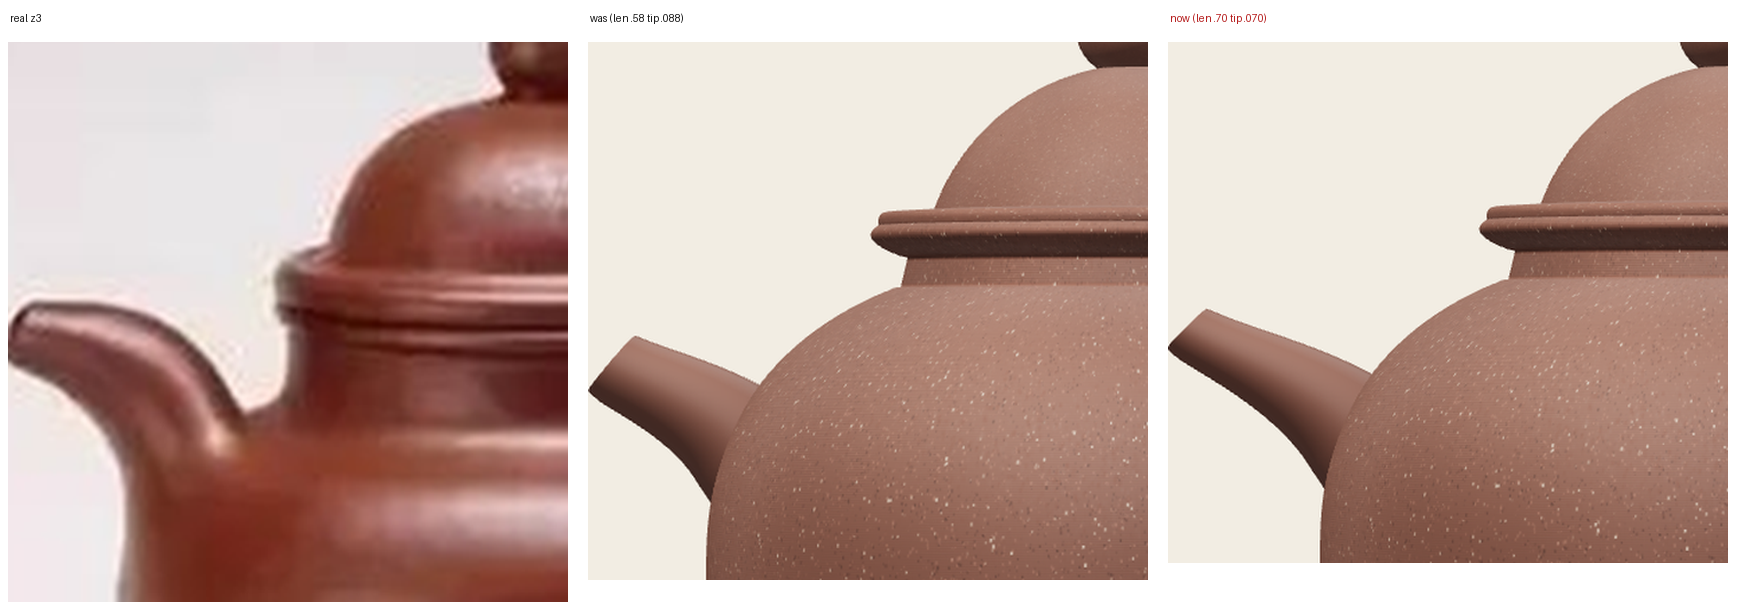
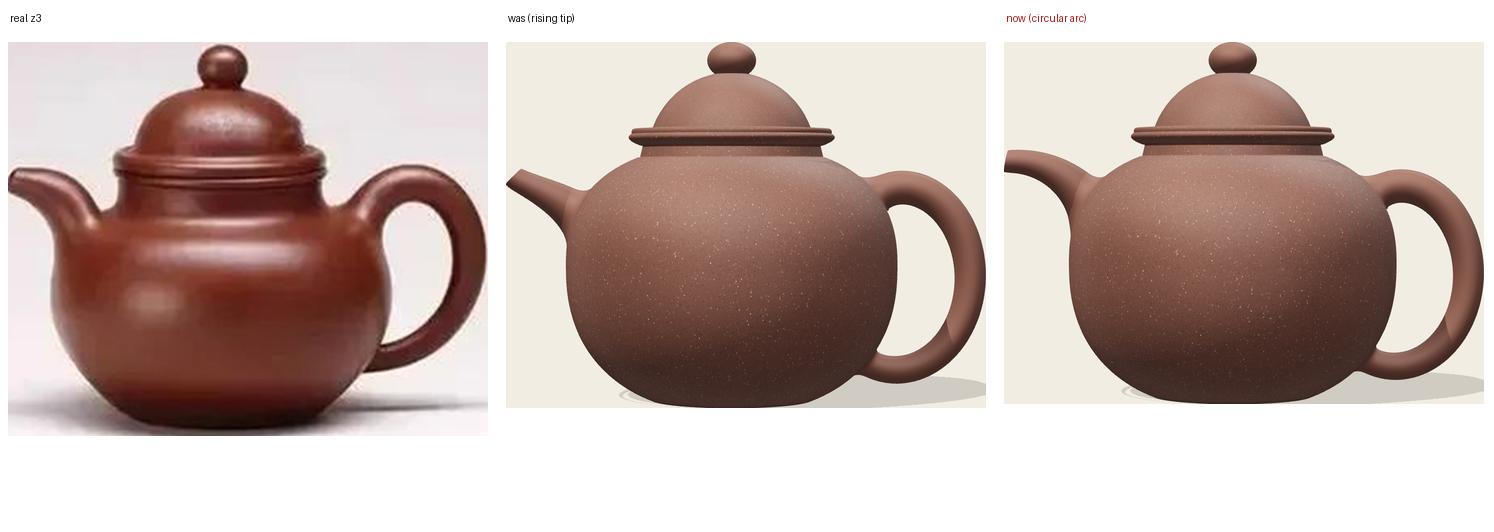
掇球: the spout is a circular arc, balanced against the handle
`bend` 2.4 -> 1.0 makes the tangent angle turn at a constant rate, which is
exactly a circular arc; tipAngle -6 carries the lip just past level so the arc
reads as part of a circle rather than as something that flattens out. The lip
flick is gone. Measured curvature is now 0.0098 at the root against 0.0097 at
the tip — constant, as it should be.

For the balance I measured the photographs rather than guessing at "symmetric":
spout reach over handle reach is 0.98 on z3, 0.92 on z9, and the spout tip sits
at 66% and 74% of pot height. Ours was 0.92 and 59% — the reach was already
right and the tip was low, which is not what I would have adjusted by eye.
rootAngle 30 -> 48 and length 0.78 -> 0.86 put it at 1.00 and 64%.

The detail check had to change, and it is worth saying why rather than quietly
loosening it: it asserted the turn was *front-loaded*, which was right when the
shape was a log curve but rejects an honest circular arc. The invariant that
survives is the failure mode — a knee at the lip — so it now asserts curvature
does not rise toward the tip. A log curve passes, an arc passes, a square
corner still fails.

Twelve-view QC; canon and details pass on all six pots.

Claude-Session: https://claude.ai/code/session_01Au3NkrP4Zh9Vb2uEzJxxmj

diff --git a/public/refs/index.html b/public/refs/index.html
@@ -43,7 +43,7 @@
 <figure><figcaption>掇球 — three reference spouts at maximum zoom: the bend is at the root, then it straightens</figcaption>
 <a href="spout_zoom.png"><img src="spout_zoom.png" alt=""></a></figure>
 
-<figure><figcaption>掇球 — the spout: reference, before, and after lengthening with a narrower lip</figcaption>
+<figure><figcaption>掇球 — the spout as a circular arc: reference, rising tip, and the arc</figcaption>
 <a href="lip.png"><img src="lip.png" alt=""></a></figure>
 
 <figure><figcaption>掇球 — brim width against dome height, swept against both references</figcaption>

diff --git a/README.md b/README.md
@@ -173,7 +173,7 @@ dead giveaways, so they get their own assertions on the curves themselves:
 |---|---|
 | every non-`none` slot has real geometry | a spout positioned at NaN — invisible in the render, silent in every other check |
 | handle never reverses (0 curvature sign changes) | the wiggle where a strap curls in and kicks back out |
-| spout bends most at the root | a straight run with a knee near the lip — reads as a square corner, not a curve |
+| spout has no knee at the lip | a straight run that turns sharply near the lip — a square corner, not a curve. Curvature falling toward the tip (a log curve) and curvature holding steady (a circular arc) are both shapes real spouts have; only curvature *rising* toward the lip is wrong |
 | spout rises across its *visible* run | a spout that sags before it climbs — measured outside the belly, since the buried quarter says nothing about what anyone sees |
 | mouth collar stands proud (rise *and* fall in r(y)) | a collar that swells and stays wide — a flange |
 | lip opens up and forward | a 流口 bevelled the wrong way round, so the pot pours down its own outside |
